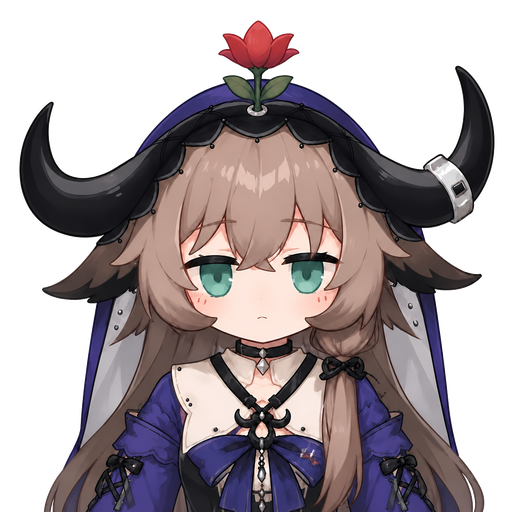
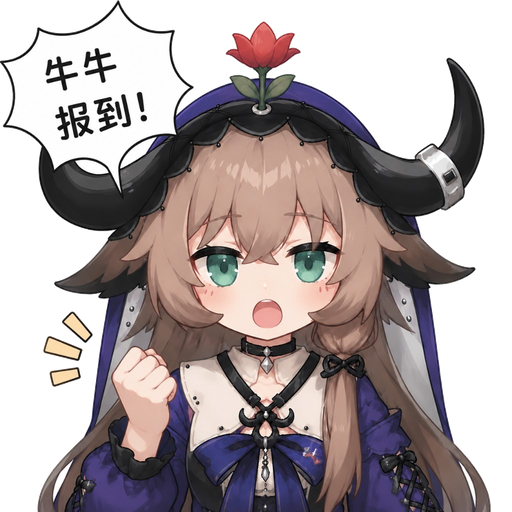
chore(assets): 更新品牌图为「牛牛报到」透明背景版本

diff --git a/CHANGELOG.md b/CHANGELOG.md
@@ -5,6 +5,9 @@
 
 ## [Unreleased]
 
+## [4.0.8] - 2026-06-26
+- chore(assets): 更新品牌图为「牛牛报到」透明背景版本
+
 ## [4.0.7] - 2026-06-25
 - feat(metadata): 补充测试邮件命令冷却声明
 